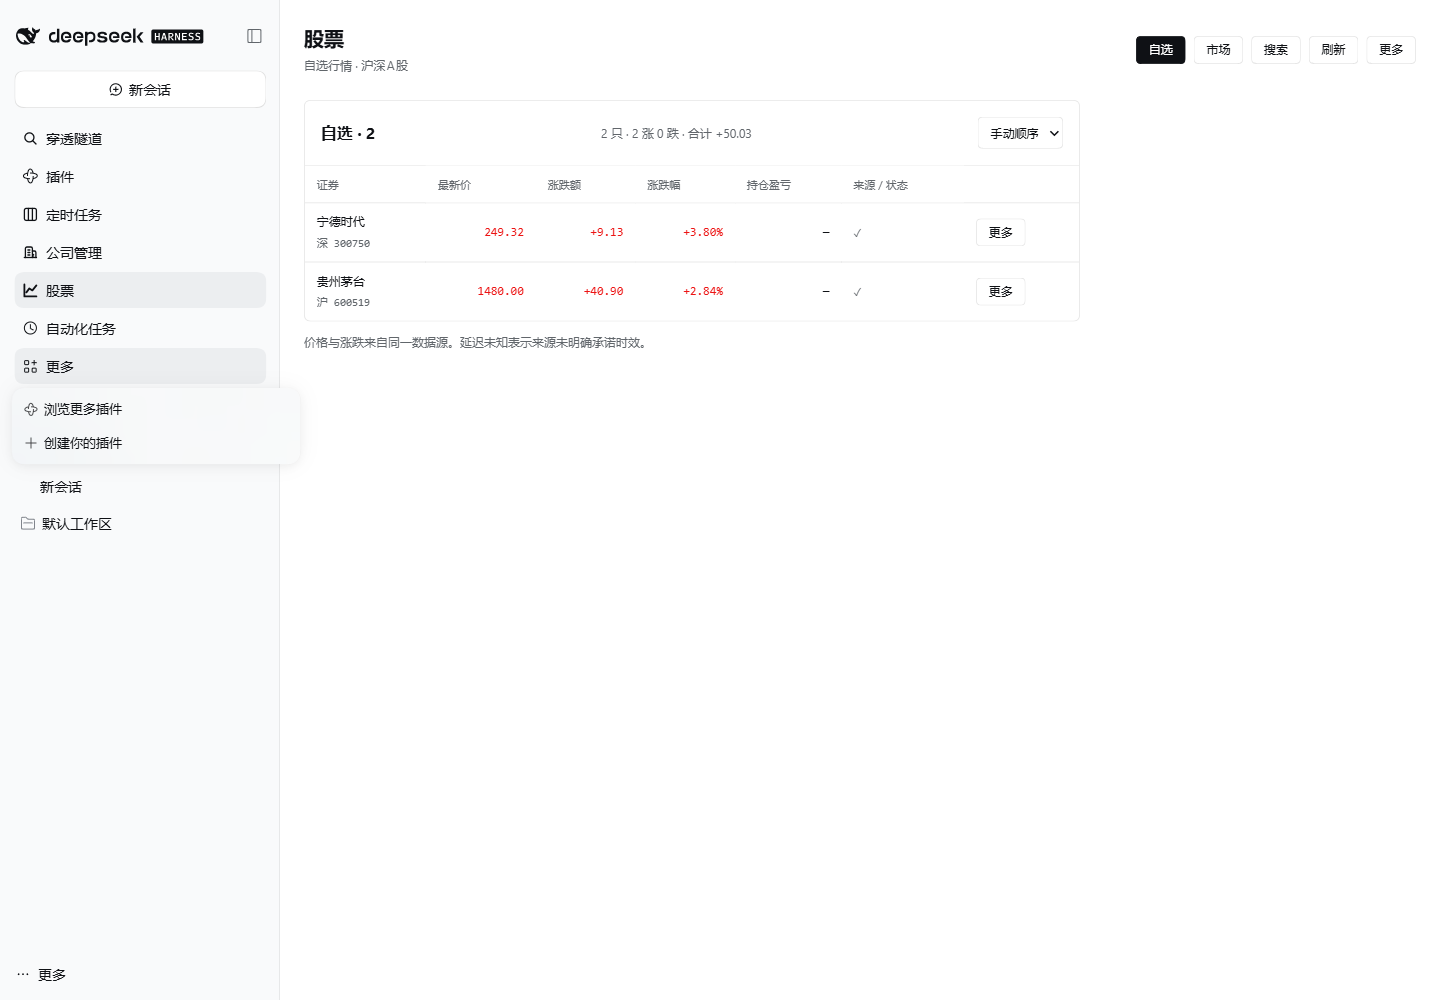
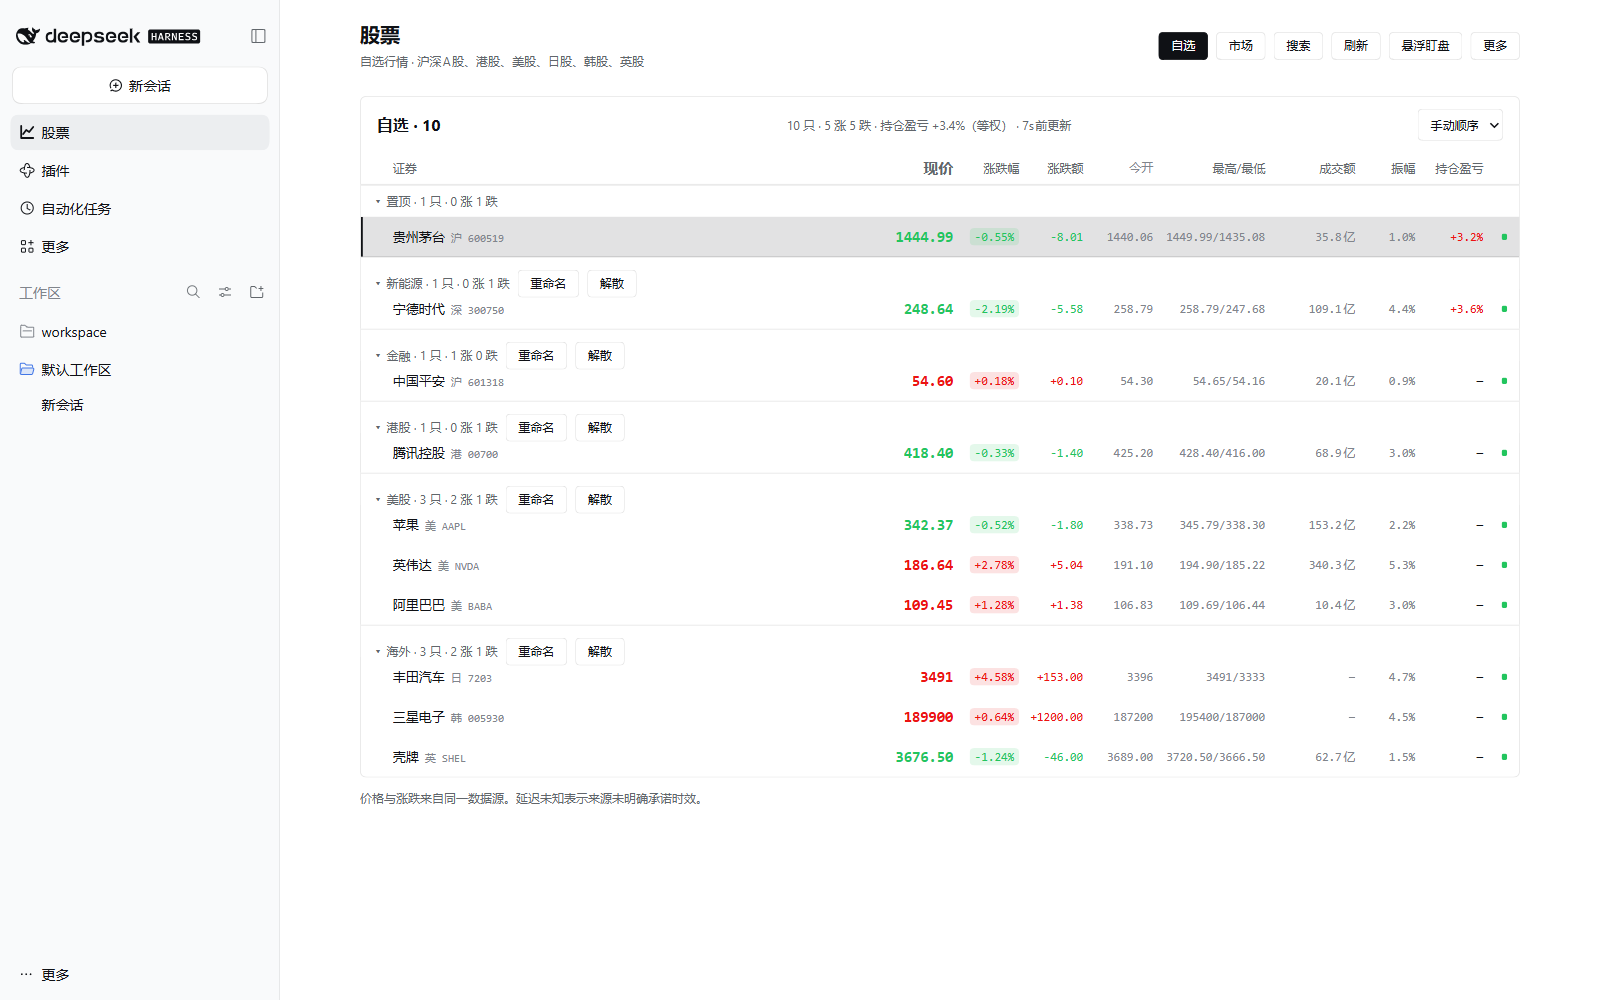
docs(stock): 完善商店截图与文档,准备提交 dshmarket
- 隔离宿主 0.2.2-rc.1 重拍自选/市场/搜索并新增 K 线/悬浮/设置截图
- screenshots.json 声明 7 张图,更新 README/CHANGELOG/兼容性记录
- 同步设置页凭据文案,修正 0.4.0 路由数与市场数
- 根 README 更新商店取图与图标说明

diff --git a/packages/dsh-stock-assistant/src/client.js b/packages/dsh-stock-assistant/src/client.js
@@ -1925,7 +1925,7 @@ window.__ModuleLoader__.load({
       const busyConfig = state.busy.configuration || state.busy.check
       return h('section', { className: 'ssb-settings' },
         h('div', { className: 'ssb-settings-head' },
-          h('div', { className: 'ssb-settings-intro' }, h('h2', null, '设置'), h('p', { className: 'ssb-muted' }, `${enabled} 个数据源 · ${controlRoutes.length} 条能力路由 · ${markets} 个市场；凭据保留在Host环境变量中，这里仅保存变量名与数据路由`)),
+          h('div', { className: 'ssb-settings-intro' }, h('h2', null, '设置'), h('p', { className: 'ssb-muted' }, `${enabled} 个数据源 · ${controlRoutes.length} 条能力路由 · ${markets} 个市场；凭据由宿主凭据服务保管（接口不全时回退环境变量），这里只保存引用名与数据路由`)),
           h('div', { className: 'ssb-toolbar' }, h(Button, { primary: true, disabled: busyConfig, title: '写入内置免凭据数据源与八市场能力路由，探针不可用的目标自动剔除；自选与显示偏好不受影响', onClick: quiet(() => runtime.applyRecommended()) }, state.checkProgress || (busyConfig ? '正在应用…' : '应用推荐配置')))),
         h('div', { className: 'ssb-tablist', role: 'tablist', 'aria-label': '设置分区' }, ...TABS.map(([key, label]) => h('button', { key, role: 'tab', 'aria-selected': tab === key, className: `ssb-tab${tab === key ? ' ssb-tab-on' : ''}`, onClick: () => change({ tab: key }, false) }, label))),
         pane)

diff --git a/README.md b/README.md
@@ -31,7 +31,7 @@ dsh-plugin/
 | @mzzsfy/dsh-settings-nav-icons | 设置导航分区图标:把千篇一律的齿轮换成各分区专属图形,并为插件市场卡片头像槽提供插件图标,重载页面即恢复官方图标 | 观察设置导航 DOM 与市场卡片 DOM,按分区显示文本贴图;插件面板可声明自己的图标;取图链 声明→内置→关键词→哈希 | DSH 纯前端插件(DOM 观察) |
 | @mzzsfy/dsh-auto-trust-all | 动态信任所有实际到达的 Host:泛域名等无法枚举的入口免改启动命令即可达,监听绑定归部署层,认证层(原生 cookie 与会话闸门)不动 | 包装 webServer 全部路由把 Host 头实时注册进 `connection.trustedHosts`(0.2.0 线 `webRuntime` 镜像);容量 maxHosts 默认 100 按 LRU 淘汰,注册/淘汰 console 直出可作入口审计 | DSH host 端插件(bundle patch + 路由包装) |
 | @mzzsfy/dsh-shared-terminal | 共享交互式终端:AI `terminal` 单工具(open/list/read/write/wait/close)与 DSH 官方 Sidebar xterm 共用 Session terminal,用户可输入并查看当前屏幕 | 通过 DSH 官方 terminalController 管理终端;read 走私有 owner lookup 与 xterm active viewport;0.2.1-rc.2 起写入改自持 attach 泵(用户可随时接管) | DSH 双端插件(官方 terminal controller + Session result renderer) |
-| @mzzsfy/dsh-stock-assistant | 股票单页面工具：沪深A股自选、搜索、基础行情、别名/置顶/排序、数据源与路由设置；页面状态不随会话切换销毁 | 根作用域 main + 左导航入口；Provider按市场/能力路由，报价同源归一；专用 stock_assistant 数据域保存自选/配置/缓存，不使用默认 settings；通知复用公共WS | DSH 双端插件(storage 域 + web 路由 + 全局工具页) |
+| @mzzsfy/dsh-stock-assistant | 股票工作台:沪/深 A 股、港股、美股 NYSE/NASDAQ、日经、韩证、伦敦八市场的自选、搜索、行情与 K 线图,支持分组/置顶/别名/价格标记、悬浮盯盘与数据源能力路由;页面状态不随会话切换销毁 | 根作用域 main + 左导航入口;Provider 按市场/能力路由,报价同源归一;专用 stock_assistant 数据域保存自选/配置/缓存,K 线经 lightweight-charts 渲染;通知走公共 common-tools(已装 turn-notify 时由其呈现) | DSH 双端插件(storage 域 + web 路由 + 全局工具页) |
 | @mzzsfy/dsh-cron-board | 定时任务看板:环境变量集中管理(多值展开/dotenv 导入导出)+ cron 定时任务,执行体支持本地脚本与 dsh 会话任务(fresh 每次新建 / pinned 固定会话,可指定模型) | host 端 croner 解析 cron 触发,全局并发闸门与超时收尾;支持内联时区后缀 `T±N`;pinned 会话任务忙时自动跳过;会话任务经 sessionController 投递,投递即终态 | DSH 双端插件(web 路由 + settings 槽位) |
 | @mzzsfy/dsh-common-tools | 公共依赖库:按插件空间隔离的 WebSocket 订阅/推送总线与 toast,两端 `setupCommonTools(ctx)` 自动绑定当前插件 | 插件就是通道,subscribe/publish 共享单条页面 WS;host 提供 presence,client 提供 toast;经 session-manager 占位条目装载 | 普通 npm 依赖非插件,插件管理不可见 |
 | @mzzsfy/dsh-context-manager | 对话增强:历史输入浮层(`Alt+↑` 唤起,四范围导航与即时搜索,常用提示词收藏)、插话撤回、对话分叉(重写式 fork,原输入回填供编辑重发)、标题栏复制 sessionId、克隆仓库打开工作区 | Host 聚合工作区历史缓存(`~/.dsh/historyPrompt/`)经 `/api/context/*` 供浮层查询;分叉走宿主 sessions 服务面 fork+open;克隆注入官方浏览目录弹窗 | DSH 双端插件(host 路由 + client 注入) |
@@ -43,10 +43,10 @@ dsh-plugin/
 
 ## 商店展示
 
-插件在 DSH 商店(设置 → Plugins → Discover)的图片分两层:
+插件在 DSH 商店(dshmarket 与官方 Discover)的图片分两层:
 
-- **48px 图标**(列表卡片):图标资产 `assets/icons/*.svg`(Discover 索引内联形态)与 `assets/icons/png/`(上游 icon 光栅形态,180px)由 `scripts/generate-icons.mjs` 从 nav-icons glyph 生成,与设置页图标同一视觉语言。官方目录(awesome-dsh-plugin)当前全部条目无图标且其索引生成器不透传 icon 字段,随上游 PR 补齐。
-- **详情页效果截图**:仓库 `assets/screenshots/<包名>/` 收录各插件真实界面截图,随上游收录与截图 PR 提交,展示于 awesome-dsh-plugin.com 与 dshmarket 详情页(官方 Discover 详情不承载截图字段)。上游采用方式:awesome-dsh-plugin 仓库的 `build-site.mjs` 按作者仓库根 `screenshots.json` 登记的 GitHub 直链取图,截图 PR 需同时提交本目录图片与该登记文件(收录条目草稿在任务工作区,随 PR 一并提交)。
+- **48px 图标**(列表卡片):`assets/icons/*.svg` 与 `assets/icons/png/`(180px)是商店/文档用图标资产(SVG 由 `scripts/generate-icons.mjs` 从 nav-icons glyph 生成,PNG 为同源 180px 光栅版;不保证与各插件运行时导航图标逐像素一致)。上游收录条目以 `icon` 字段指向 PNG 直链,展示于 dshmarket 商店卡片;截至 2026-11-09 官方 catalog 索引生成器仍不透传 `icon`,官方 Discover 列表显示默认占位。
+- **详情页效果截图**:仓库 `assets/screenshots/<包名>/` 收录各插件真实界面截图,展示于 awesome-dsh-plugin.com 与 dshmarket 商店(卡片与详情同源数据);官方 Discover 详情不承载截图字段。上游取图方式是读取作者仓库中**条目目录**旁的 `screenshots.json`(monorepo 即 `packages/<包名>/screenshots.json`;最多 8 条,GitHub https 直链或包目录内的相对路径),探活后随站点构建收录——新增或替换截图只需提交本目录图片与对应 `screenshots.json`,不需要单独的截图 PR。上游收录条目草稿在任务工作区,随条目 PR 一并提交。
 
 ## 安装与更新:缩短 pnpm 宽限期
 
@@ -68,7 +68,7 @@ pnpm config set --global minimumReleaseAge 360
 
 ### 宿主兼容性
 
-兼容性目标策略(2026-09-27 起):双槽窗口——主测 = 各渠道 dist-tag 指向版本中最新的 rc(渠道全无 rc 时取各渠道指向版本中语义化版本最大者;与基线同版本则窗口缩为单主测),完全适配(阻塞);基线 = dist-tag `latest` 指向版本,不崩溃底线(阻塞);三版本完全兼容不再执行(难度与收益不成比例)。窗口唯一规则实现为 `node scripts/compat/window.mjs`(实算随 dist-tag 滑动,本节版本号仅为写作日快照,与脚本输出不一致时以脚本为准):2026-10-26 实算 0.2.1-rc.3(主测)/ 0.2.1-rc.2(基线)。各包 manifest `dsh.compatibility.dshReleases` 为逐版本登记(compatible=实测通过,unknown=未测;存档非承诺,兼容面以窗口实测为准),`dsh.hostMin` 由 compat 装载层按包过滤低于该代际的宿主(声明包:auto-trust-all/boss-simulator/bug-perf/llm-pi-gateway/session-manager/shared-terminal/shell-select/tool-gate)。逐包测试进度与兼容性检查总纲见 [docs/兼容性测试/](docs/兼容性测试/)(本地维护,不入库,干净 clone 不可见):检查维度(D01-D15)、20 包适用矩阵与项目级验收门槛见 [兼容性检查总纲](docs/兼容性测试/兼容性检查总纲.md),逐包断言与证据要求见各包 `兼容性测试.md`。
+兼容性目标策略(2026-09-27 起):双槽窗口——主测 = 各渠道 dist-tag 指向版本中最新的 rc(渠道全无 rc 时取各渠道指向版本中语义化版本最大者;与基线同版本则窗口缩为单主测),完全适配(阻塞);基线 = dist-tag `latest` 指向版本,不崩溃底线(阻塞);三版本完全兼容不再执行(难度与收益不成比例)。窗口唯一规则实现为 `node scripts/compat/window.mjs`(实算随 dist-tag 滑动,本节版本号仅为写作日快照,与脚本输出不一致时以脚本为准):2026-11-09 实算 0.2.2-rc.1(主测;与 `latest` 同版本,窗口缩为单槽)。各包 manifest `dsh.compatibility.dshReleases` 为逐版本登记(compatible=实测通过,unknown=未测;存档非承诺,兼容面以窗口实测为准),`dsh.hostMin` 由 compat 装载层按包过滤低于该代际的宿主(声明包:auto-trust-all/boss-simulator/bug-perf/llm-pi-gateway/session-manager/shared-terminal/shell-select/tool-gate)。逐包测试进度与兼容性检查总纲见 [docs/兼容性测试/](docs/兼容性测试/)(本地维护,不入库,干净 clone 不可见):检查维度(D01-D15)、20 包适用矩阵与项目级验收门槛见 [兼容性检查总纲](docs/兼容性测试/兼容性检查总纲.md),逐包断言与证据要求见各包 `兼容性测试.md`。
 
 以下为 2026-09-27 Round 30 实测记录(历史留档,当时窗口仍为三版本:0.1.2-rc.1 基线 / 0.1.5-rc.3 主测 / 0.1.7-rc.2 完全兼容目标;其中 dsh-shell-select 预设架构当时要求 ≥0.1.7-rc.1,对当时基线不可安装——该例外随窗口滑动已不再成立,hostMin 过滤现由装载层通用承载):
 

diff --git a/packages/dsh-stock-assistant/兼容性测试.md b/packages/dsh-stock-assistant/兼容性测试.md
@@ -1,6 +1,6 @@
 # 股票工具兼容性与验收记录
 
-日期：2026-10-29。包版本0.1.0，Node v24.14.1，Windows。验证由当前主会话执行，用户明确禁止子agent；不声称独立审查通过。本记录将已验证行为与未验证环境事实分开，不以测试通过推导真实账户可用。
+日期：2026-10-29（本文按轮次累积，最新一轮见 2026-11-09 节）。包版本 0.1.0（当时；当前 0.4.0），Node v24.14.1，Windows。验证由当前主会话执行，用户明确禁止子agent；不声称独立审查通过。本记录将已验证行为与未验证环境事实分开，不以测试通过推导真实账户可用。
 
 ## 环境与范围
 
@@ -85,7 +85,7 @@
 
 ## 未验证与当前边界
 
-- 0.2.1-rc.2/rc.3之外版本、真实浏览器多窗口同时写、实际关闭最后一条宿主会话、30次P95打开时延、150%浏览器缩放及所有5分钟网络组合尚未逐项实测。生产HMR开发通道未经本插件改动验证（未改生产profile，无可热重载对象；client为请求现读）。
+- 本节（2026-10-29）未覆盖的版本：0.2.1-rc.5 只有 `.compat/0.2.1-rc.5` 的 crash-only 装载记录（page true）与 manifest 登记；0.2.2-rc.1 由 2026-11-09 节补齐。历史轮次结论不外推。真实浏览器多窗口同时写、实际关闭最后一条宿主会话、30次P95打开时延、150%浏览器缩放及所有5分钟网络组合尚未逐项实测。生产HMR开发通道未经本插件改动验证（未改生产profile，无可热重载对象；client为请求现读）。
 - client factory测试能证明代码不引用session，不代替真实宿主全部会话操作人工验收；测试夹具SSE桥不代替真宿主WS。两者证据分开记录。
 - 当前内置生产适配器仅Tushare；混平台抽象由两独立测试适配器覆盖。真实平台字段、权限、预算及来源最终时效需授权账户单独核对。
 - 收盘边界最后对账、目录上限板块细分、U09/C05/C06/C07/P12驻留等缺口已补固定结构测试，最终计数57/57。未逐项复刻全部57条BDD的每个环境组合，测试名与BDD ID的对应关系以断言语义为准。
@@ -181,6 +181,24 @@
 - 四秒退避的代际检查没有自动化用例：需要真实计时，靠代码路径确认。
 - 悬浮窗的轮询状态机没有端到端用例：`pollPlan` 各分支已由纯函数用例锁定，但从「面板报价冻结」到「状态翻回」的整链只在真机上确认过。
 - 开市发现延迟：安静档最快一分钟一拍，第十拍才真刷新，所以收盘后开市最多要等十拍（默认间隔下约十分钟）才恢复实时。
+
+## 2026-11-09 隔离宿主 0.2.2-rc.1 与商店截图采集
+
+商店详情页需要与当前版本一致的界面证据，同时不改生产 profile/宿主。本轮用仓库 compat 工位新开隔离实例，采集真实界面截图并顺带回归主路径。
+
+- **环境**：`node scripts/compat/run.mjs --version 0.2.2-rc.1 --port 9297 --work-root .work/shots --only dsh-stock-assistant --keep`。`DSH_HOME` 指向 `.work/shots/0.2.2-rc.1/home`；`--only` 只决定 `dsh.profile.bundles` 白名单（基座 + dshmarket + 本包），profile dependencies 仍按隔离工位装全仓包、未启用。端口 9297，生产 3080 与 `~/.dsh` 未读写。宿主以 dev-link 同款 junction 指向工作副本。
+- **数据**：经真实 HTTP 合约（搜索候选→`watchlist add`→`group`/`pin`/`marks`）写入 10 只演示自选，覆盖沪、深、港、美股 NASDAQ/NYSE、日、韩、英八个市场；分组为消费/新能源/金融/港股/美股/海外，贵州茅台置顶并带成本 1400/卖价 1800 两条标记。上证目录经 `catalog-sync` 同步 2468 只，用于浏览市场页。
+- **实测面**：
+  - 导航入口「股票」进入 main，自选表 10 行全部取到真实东财报价，分组段头统计、置顶区、持仓盈亏与来源健康点正常
+  - 详情抽屉：日 K 250 根、MA5/10/20/60 与 EMA/BOLL/BBI 指标线、成本/卖价标记线、区间最高/最低；鼠标悬停出十字线读数（日期/开高低收/涨跌/量/指标值）
+  - 悬浮盯盘：图形形态（含勾选面板、成本/卖价标记线与价格刻度）；列表形态本轮未截图
+  - 搜索：多市场候选（美股 + ETF + 英股）带币种徽标，「已在自选」态正确
+  - 浏览市场：八市场页签、上证指数概览、目录列表首屏
+  - 设置：4 个默认数据源、32 条能力路由、8 个市场，数据源卡与市场路由网格渲染正常
+- **截图产物**：`assets/screenshots/dsh-stock-assistant/` 下 `board.png`、`kline.png`、`floating.png`、`market.png`、`search.png`、`settings.png`、`settings-routes.png`（均 1600×1000，浅色主题，隔离实例实采）；`packages/dsh-stock-assistant/screenshots.json` 按上游 `probe-screenshots` 规则声明 7 条 GitHub 直链（上限 8）。
+- **回归基线**：同工作树 `npm test` 329/329 通过（2026-11-09 23:25，含 Finnhub 与宿主凭据托管用例）。测试计数随工作树变动,提交前以当次输出为准。
+- **边界**：Tushare 与 Finnhub 需要真实凭据，本轮未配置、未消耗任何账户额度；未验证多窗口并发写、会话关闭/恢复、暗色主题截图；截图完成后工作树继续有 finnhub/凭据托管改动，截图只覆盖默认免凭据数据源形态。设置页简介文案已随凭据托管同步，`settings*.png` 为重拍版。
+- **收尾**：按 `.work/shots/0.2.2-rc.1/live.json` 的宿主 pid 与模拟器 pid 组杀（Windows `taskkill /T /F`），并确认 9297/16800 无监听；`keep-stop.mjs` 只认 `.compat` 工位、不适用于自定义 `--work-root`，未使用。`live.json` 保留作证据；演示数据、会话与日志只落 `.work/shots`（不入库），生产宿主未启停。
 
 ## 宿主升级回归项（本包相关）
 

diff --git a/packages/dsh-stock-assistant/CHANGELOG.md b/packages/dsh-stock-assistant/CHANGELOG.md
@@ -151,12 +151,12 @@
 
 | 能力 | 主源 | 备源 |
 |---|---|---|
-| 目录 | 东财（五市场一个源） | — |
+| 目录 | 东财（八市场一个源） | — |
 | 搜索 | 东财 | — |
 | 报价 | 东财 | 沪深港 → 新浪；美股 → 雪球 |
 | K线 | 东财 | 沪深港 → 腾讯 |
 
-- 目录不再为沪深单开新浪分支：新浪沪深目录要 30 页翻 31 秒，东财一个源覆盖五市场
+- 目录不再为沪深单开新浪分支：新浪沪深目录要 30 页翻 31 秒，东财一个源覆盖八市场
 - 美股报价备源从新浪换成雪球：雪球时间戳是 UTC 毫秒，与东财同口径，新浪美股时间需要额外推导
 - 四个源都免凭据，37 个探针目标全部就绪
 
@@ -173,7 +173,7 @@
 
 - **东财补齐日韩英三市场搜索**：搜索联想的市场号 176/177/155 此前不在映射表里，日股、韩股、英股的候选被整体丢弃。补入后 `7203`→丰田、`005930`→三星、`SHEL`→壳牌均可命中。
 - **纽交所报价还给东财**：美股 secid 前缀必须精确匹配交易所（`106.BABA` 有数据、`105.BABA` 没有），而前缀来自搜索建立的映射，探针期没有映射必然失败。改为探针逐个候选前缀试探，纽交所不再需要绕道新浪。
-- **默认配置 29 条路由**：搜索与报价/K线一样覆盖八市场，报价备源扩到沪深港美，K线备源仍限沪深港（腾讯美股 K 线需先由搜索建立映射，探针期不可验证）。37 个探针目标全部就绪。
+- **默认配置 32 条路由**：目录、搜索、报价、K 线均覆盖八市场，报价备源扩到沪深港美，K线备源仍限沪深港（腾讯美股 K 线需先由搜索建立映射，探针期不可验证）。37 个探针目标全部就绪。
 - **新增雪球数据源**：沪深港美四市场可在同一请求里混装，除标准行情外还给出换手率与市值。匿名访问首页取 `xq_a_token` 后进程内缓存，令牌失效自动刷新一次。
 
 ### 已知未修

diff --git a/docs/开发-股票侧边栏插件.md b/docs/开发-股票侧边栏插件.md
@@ -1,5 +1,7 @@
 # 股票单页面工具开发规格
 
+> 文档状态（2026-11-09）：本文是第一期单市场/多源行情规格，保留为历史设计依据。当前实现已超出本文范围：0.4.0 已交付 K 线、八市场、分组、价格标记与悬浮盯盘；宿主凭据托管与 Finnhub 适配器是 0.4.0 之后的未发布改动（见 [CHANGELOG](../packages/dsh-stock-assistant/CHANGELOG.md)）。K 线与多市场设计见 [design.md](./dsh-stock-assistant/design.md)；本文与现行代码/README 冲突处，以代码与 README 为准。
+
 日期：2026-10-29。目标包：`@mzzsfy/dsh-stock-sidebar`（2026-10-30 已改名 `@mzzsfy/dsh-stock-assistant`，历史记录保留原名，现行包见新名）。状态：P0源码已落地，本地回归与隔离宿主接入验证已执行；真实账户及完整环境验收按记录保留未验证项。源码见[插件说明](../packages/dsh-stock-assistant/README.md)，验收证据见[兼容性测试](../packages/dsh-stock-assistant/兼容性测试.md)。用户已授权“开始实施”，明确要求抽象数据提供层、支持更换和混合平台、全局单页面，以及独立数据存储；全程不使用子 agent，不标记独立审查通过。不修改生产profile、不使用真实行情账户、不发布。
 
 ## 文档职责与流程边界

diff --git a/docs/dsh-stock-assistant/design.md b/docs/dsh-stock-assistant/design.md
@@ -1,5 +1,7 @@
 # 股票 K 线与多市场开发规格
 
+> 文档状态（2026-11-09）：本文的 K 线/八市场设计已随 0.4.0 落地，保留为实施依据；0.4.0 另外交付的分组、价格标记、悬浮盯盘，以及未发布的宿主凭据托管与 Finnhub 适配器不在本文范围，见 [CHANGELOG](../../packages/dsh-stock-assistant/CHANGELOG.md) 与 [插件说明](../../packages/dsh-stock-assistant/README.md)。
+
 日期：2026-10-30。目标包：`@mzzsfy/dsh-stock-sidebar` 第二期。状态：设计定稿待实施。前置：第一期规格见[开发-股票侧边栏插件](../开发-股票侧边栏插件.md)（已交付：多源行情骨架/浏览市场/设置路由），本期在其上增量。执行状态与审查记录见 .work/bootstrap-kline-multimarket.md（任务记录，不入版本库）。
 
 ## 文档职责与流程边界
